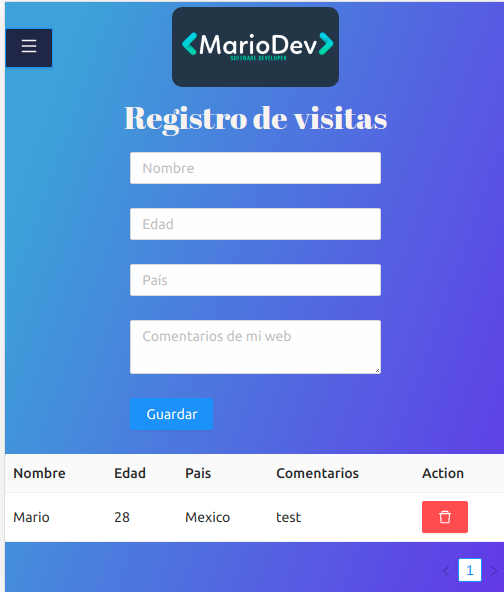
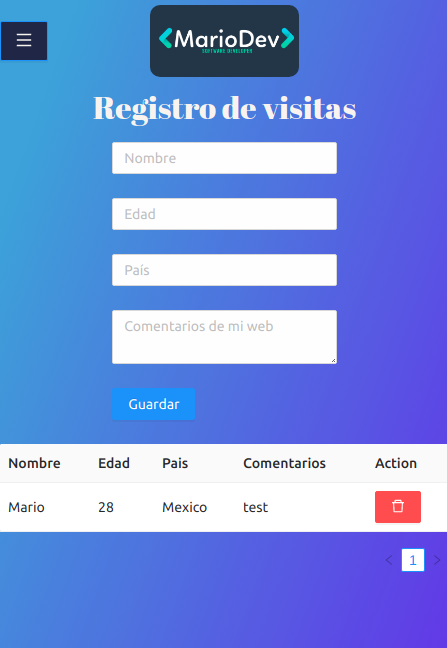
agregando content server-crud!

diff --git a/content/2021-01-30-server-crud/index.md b/content/2021-01-30-server-crud/index.md
@@ -7,4 +7,29 @@ cover: ./portada.png
 excerpt: 404...
 ---
 
-proximamente...
+Una de los términos muy utilizados por los programadores es CRUD, para los que inician en este ámbito muchas veces desconocen que es.
+
+Por esta razón veremos a grandes rasgos de que se trata este termino y la gran importancia en desarrollo de software.
+
+## ¿Qué es CRUD?
+En temas de informática el termino CRUD es el acrónimo de las siguientes operaciones.
+
+![](./crud.png)
+
+
+C – create (crear)        
+R – read (leer)             
+U – update (actualizar)             
+D – delete (eliminar)
+
+
+Estas operaciones hacen referencia a la interacción de la aplicación con la base de datos o la capa de almacenamiento de información.
+
+
+
+ 
+  
+![](./registro.png)
+
+
+[Demo de la aplicacion](https://proyectosmario.netlify.app/crud)
